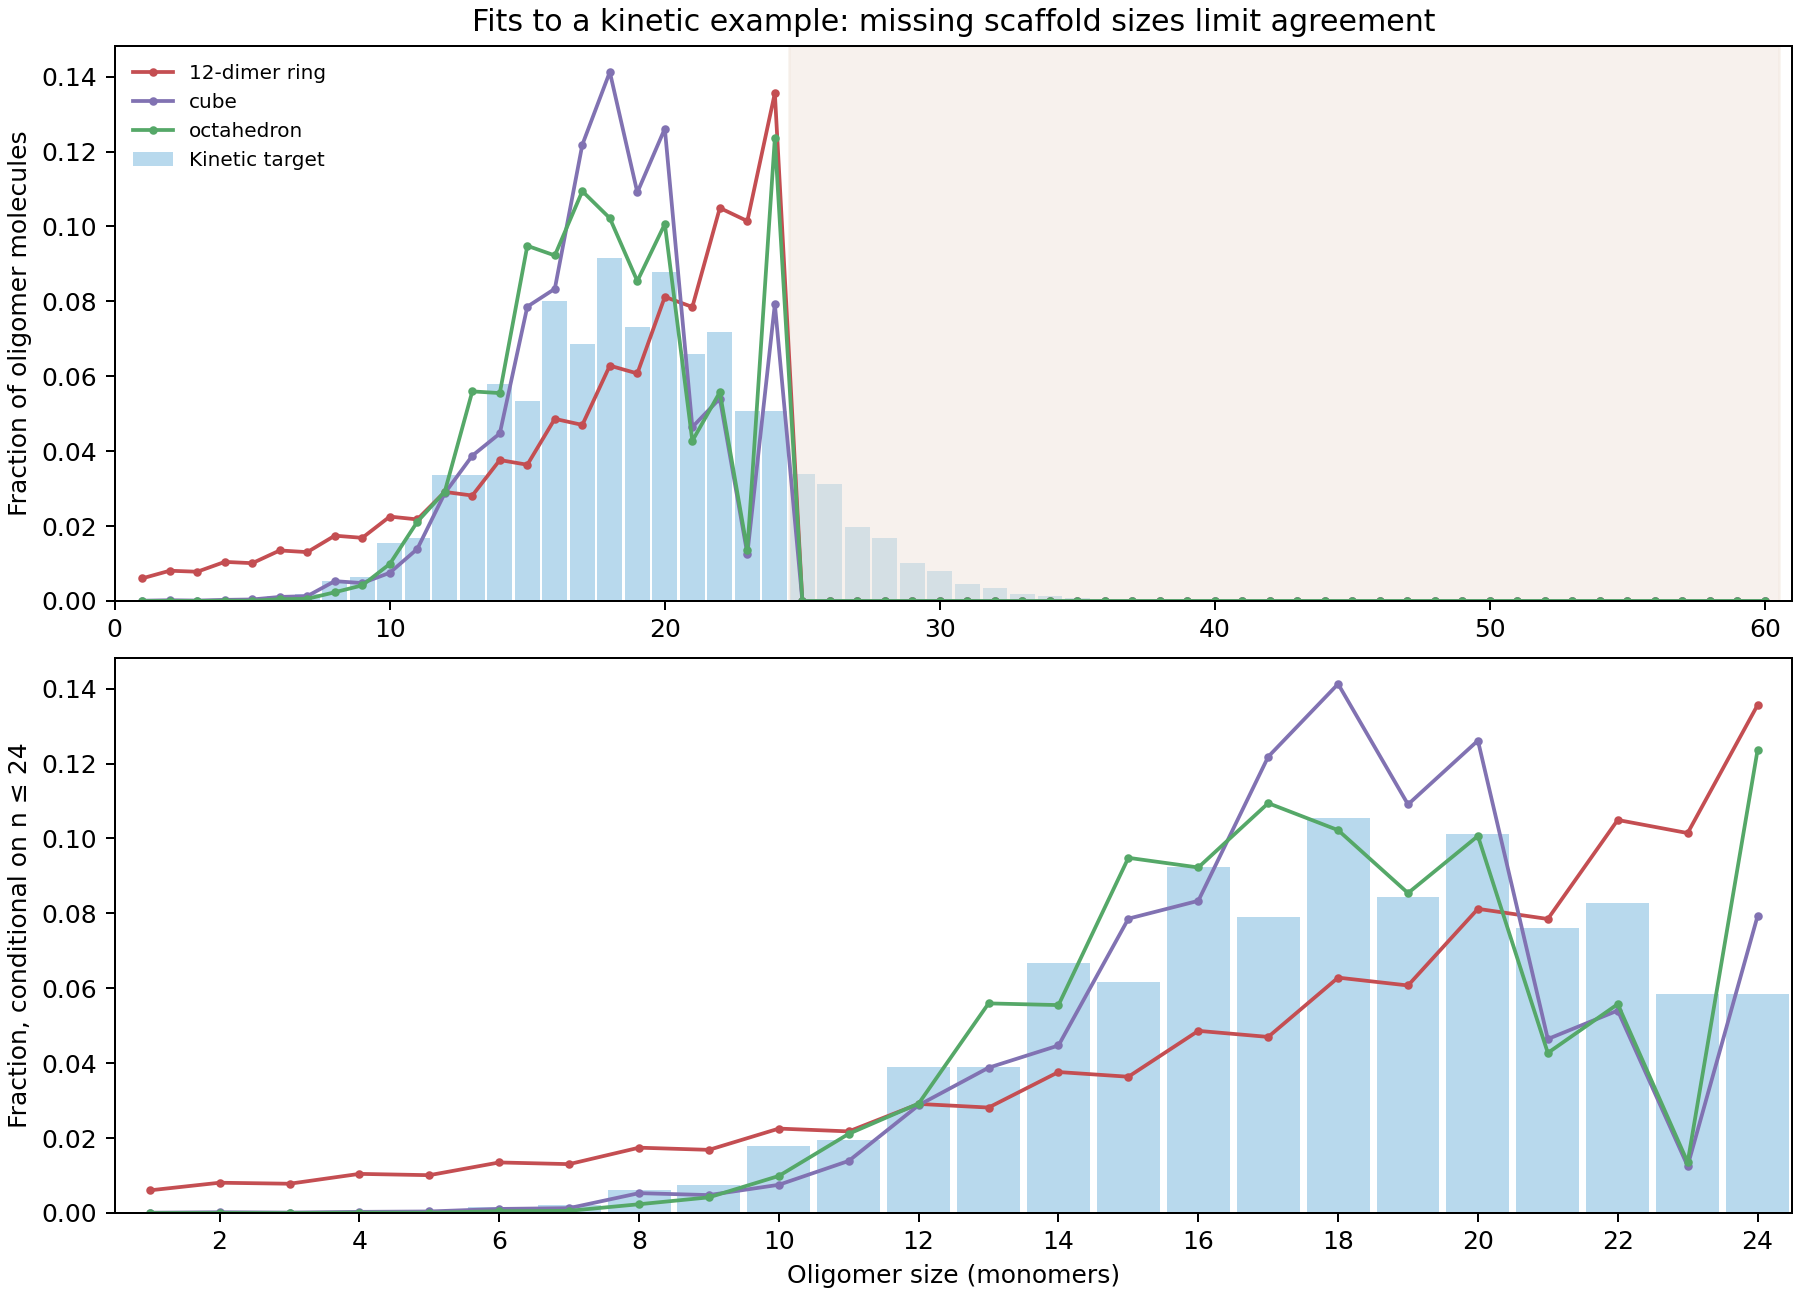
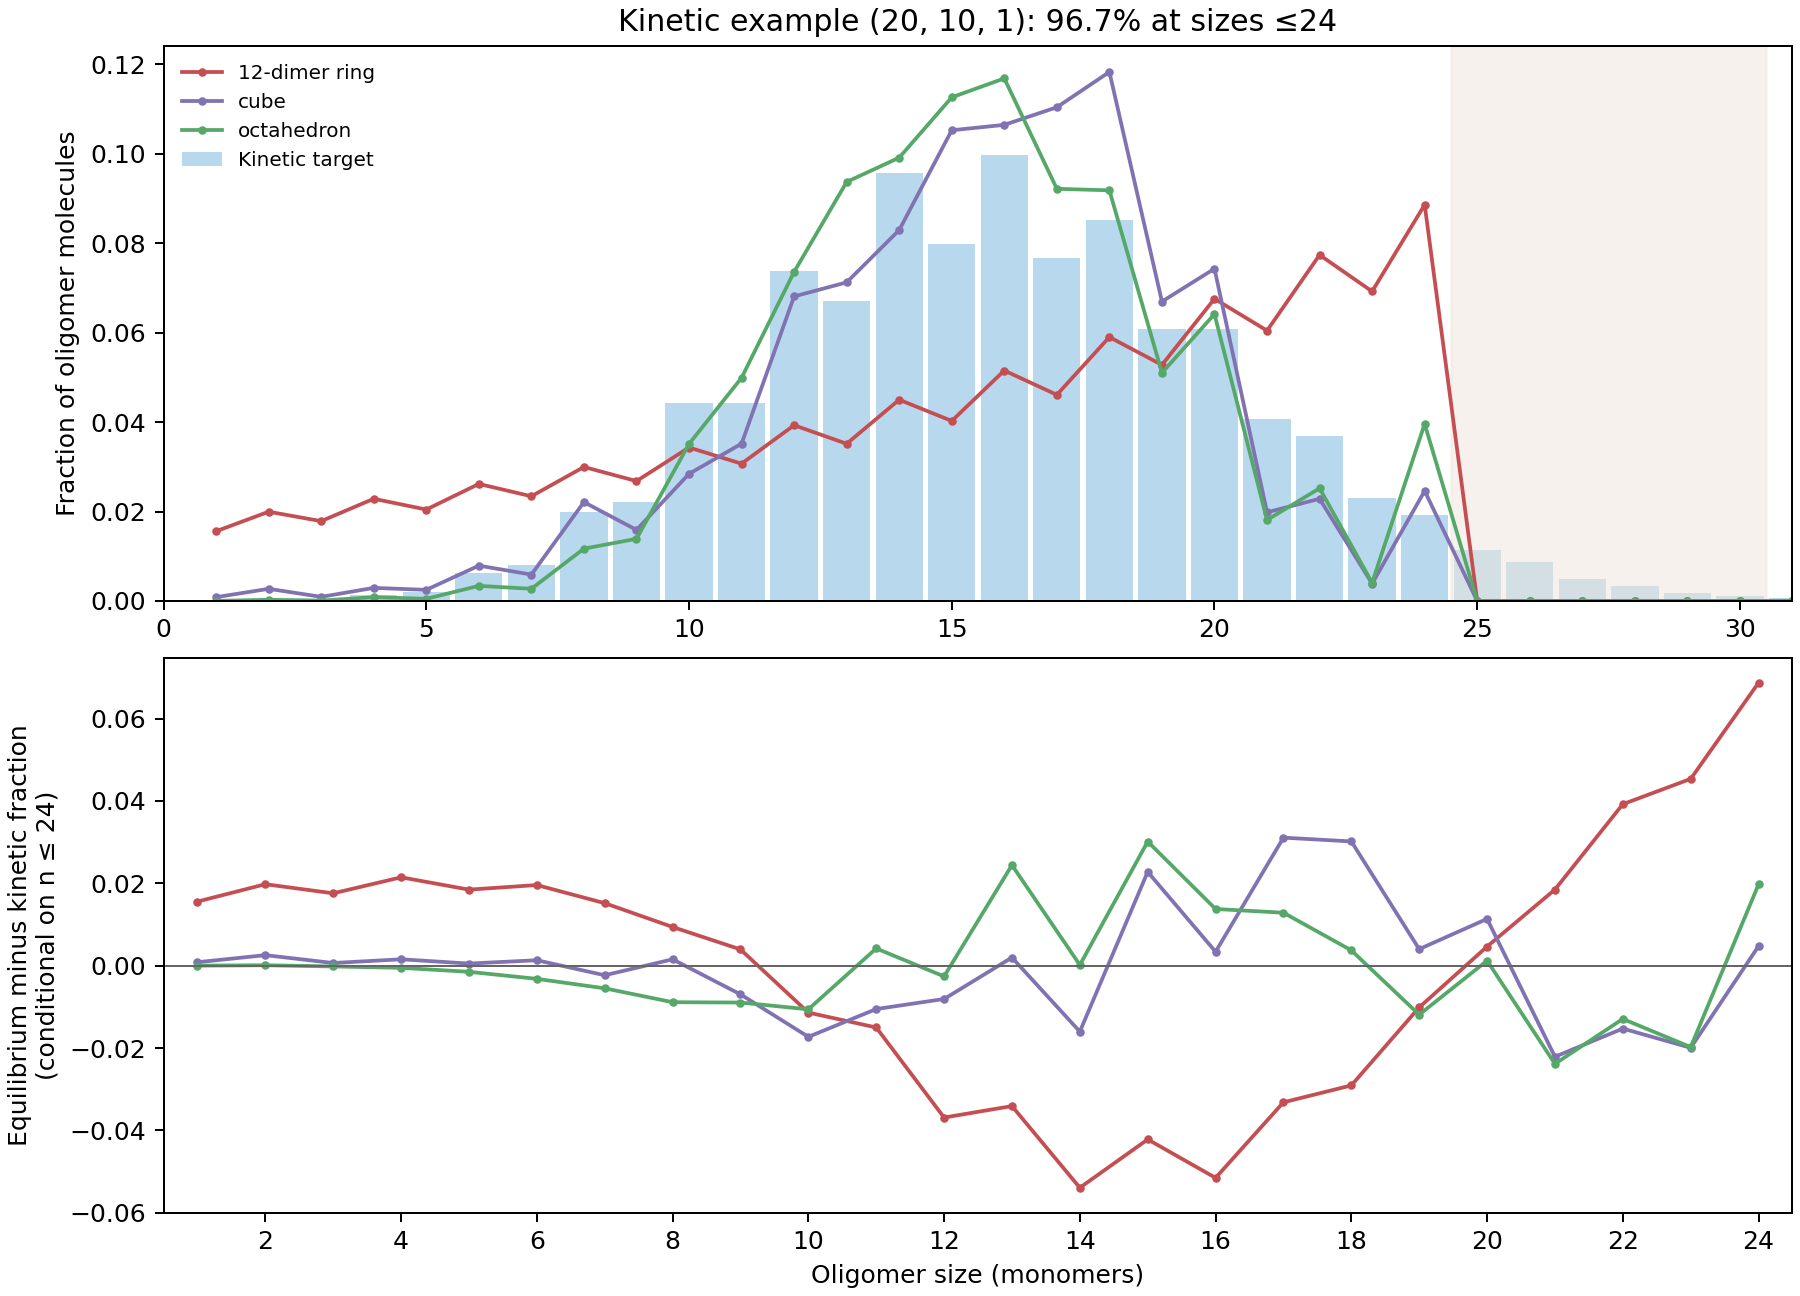
Use requested 20 10 1 rates for scaffold comparison

diff --git a/single/statistical_mechanics/fit_scaffold_to_kinetics.py b/single/statistical_mechanics/fit_scaffold_to_kinetics.py
@@ -22,7 +22,8 @@ from single.statistical_mechanics.equilibrium_scaffold import (
 from single.statistical_mechanics.geometry import cube, dimer_ring, octahedron
 
 
-BASE_RATES = (24.0, 12.0, 1.0)
+# Argument order: effective on-rate, unpaired off-rate, paired off-rate.
+BASE_RATES = (20.0, 10.0, 1.0)
 MAX_SIZE = 60
 PARENT_SIZE = 24
 
@@ -63,15 +64,14 @@ def main() -> None:
     fits = [(catalogue, *fit_catalogue(catalogue, conditional_target))
             for catalogue in catalogues]
 
-    fig, (ax_full, ax_cond) = plt.subplots(
+    fig, (ax_full, ax_residual) = plt.subplots(
         2, 1, figsize=(10, 7.2), constrained_layout=True)
     ax_full.bar(sizes, full_kinetic, width=0.9, color="#b8d9ed",
                 label="Kinetic target")
-    ax_cond.bar(sizes[:PARENT_SIZE], conditional_target,
-                width=0.9, color="#b8d9ed", label="Kinetic target, n ≤ 24")
     colours = {"12-dimer ring": "#c44e52", "cube": "#8172b2",
                "octahedron": "#55a868"}
-    print(f"Kinetic probability above 24 monomers: {missing_tail:.4f}")
+    print(f"Kinetic target mode: {int(np.argmax(full_kinetic)) + 1}-mer")
+    print(f"Kinetic probability above 24 monomers: {missing_tail:.6f}")
     print("Parent      parameters (log z, eps_d, eps_C, kappa)"
           "        TV n<=24  TV full  mode")
     for catalogue, parameters, predicted in fits:
@@ -80,9 +80,9 @@ def main() -> None:
         colour = colours[catalogue.scaffold_name]
         ax_full.plot(sizes, padded, marker="o", markersize=2.4,
                      linewidth=1.5, color=colour, label=catalogue.scaffold_name)
-        ax_cond.plot(sizes[:PARENT_SIZE], predicted,
-                     marker="o", markersize=2.4, linewidth=1.5, color=colour,
-                     label=catalogue.scaffold_name)
+        ax_residual.plot(sizes[:PARENT_SIZE], predicted - conditional_target,
+                         marker="o", markersize=2.4, linewidth=1.5,
+                         color=colour, label=catalogue.scaffold_name)
         values = tuple(vars(parameters).values())
         print(f"{catalogue.scaffold_name:13} "
               f"{str(tuple(round(x, 3) for x in values)):38} "
@@ -90,22 +90,25 @@ def main() -> None:
               f"{total_variation(padded, full_kinetic):.4f}    "
               f"{int(np.argmax(predicted)) + 1}")
 
-    ax_full.axvspan(24.5, 60.5, color="#f1e5dc", alpha=0.5)
-    ax_full.set(xlim=(0, 61), ylabel="Fraction of oligomer molecules",
-                title="Fits to a kinetic example: missing scaffold sizes limit agreement")
+    ax_full.axvspan(24.5, 30.5, color="#f1e5dc", alpha=0.5)
+    ax_full.set(xlim=(0, 31), ylabel="Fraction of oligomer molecules",
+                title=f"Kinetic example ({BASE_RATES[0]:g}, "
+                      f"{BASE_RATES[1]:g}, {BASE_RATES[2]:g}): "
+                      f"{100 * (1 - missing_tail):.1f}% at sizes ≤24")
     ax_full.legend(frameon=False, fontsize=8)
-    ax_cond.set(xlim=(0.5, 24.5), xlabel="Oligomer size (monomers)",
-                ylabel="Fraction, conditional on n ≤ 24")
-    ax_cond.set_xticks(np.arange(2, 25, 2))
+    ax_residual.axhline(0, color="#666666", linewidth=0.8)
+    ax_residual.set(xlim=(0.5, 24.5), xlabel="Oligomer size (monomers)",
+                    ylabel="Equilibrium minus kinetic fraction\n(conditional on n ≤ 24)")
+    ax_residual.set_xticks(np.arange(2, 25, 2))
     output = Path(__file__).with_name("scaffold_kinetic_fit.png")
     fig.savefig(output, dpi=180)
     print(f"Wrote {output}")
 
-    print("\nHoldout test: fit at effective on-rate 24; change only log(z) "
-          "by log(new on-rate / 24)")
+    print(f"\nHoldout test: fit at effective on-rate {BASE_RATES[0]:g}; "
+          "change only log(z) by log(new on-rate / baseline)")
     print("Parent         on-rate  TV on n<=24  predicted mode  kinetic mode")
     for catalogue, parameters, _ in fits:
-        for new_on_rate in (12.0, 36.0):
+        for new_on_rate in (16.0, 18.0):
             _, target = oligomer_distribution(
                 new_on_rate, BASE_RATES[1], BASE_RATES[2], max_size=PARENT_SIZE)
             shifted = EquilibriumParameters(

diff --git a/single/statistical_mechanics/readme.md b/single/statistical_mechanics/readme.md
@@ -94,7 +94,8 @@ their equilibrium weights are fitted.
 `fit_scaffold_to_kinetics.py` fits **four shared equilibrium parameters**
 (`log(z)`, dimer stabilization, C-terminal stabilization, and saturated-vertex
 penalty) to the repository's synthetic kinetic example
-`(k_on_eff, k_m, k_d)=(24,12,1)`. Binding stabilizations and the penalty are
+`(k_on_eff, k_m, k_d)=(20,10,1)`: effective on-rate 20, unpaired off-rate
+10, and paired off-rate 1. Binding stabilizations and the penalty are
 constrained nonnegative. The kinetic curve is a calibration target, not an
 input to the partition function itself. Both curves are normalized over
 sizes `1..24` for the fit, then the fitted equilibrium curve is compared with
@@ -102,17 +103,18 @@ the complete kinetic curve out to size 60.
 
 | Parent template | Total variation, sizes ≤24 | Total variation, full kinetic curve | Fitted mode |
 | --- | ---: | ---: | ---: |
-| Single 12-dimer ring | 0.237 | 0.281 | 24 |
-| Cube | 0.166 | 0.240 | 18 |
-| Octahedron | 0.148 | 0.230 | 24 |
+| Single 12-dimer ring | 0.317 | 0.326 | 24 |
+| Cube | 0.119 | 0.138 | 18 |
+| Octahedron | 0.110 | 0.132 | 16 |
 
-The 24-site parents cannot represent the kinetic curve's `0.133` probability
-above size 24. Their **within-range** shapes also disagree, especially near
-the full 24-mer. A concentration-proxy check fits at effective on-rate 24,
-then changes only `log(z)` by `log(new_on_rate/24)`. For the octahedron, total
-variation on sizes `1..24` rises to `0.234` at on-rate 12 and `0.281` at
-on-rate 36. Thus the present contact catalogue gives a qualitative finite
-peak but does **not** quantitatively replicate the kinetic family of curves.
+With these rates, the kinetic curve peaks at a 16-mer and has `0.03266`
+probability above size 24. The octahedral equilibrium fit has the same mode;
+its remaining mismatch is partly within the shared size range. A
+concentration-proxy check fits at effective on-rate 20, then changes only
+`log(z)` by `log(new_on_rate/20)`. For the octahedron, total variation on
+sizes `1..24` is `0.138` at on-rate 16 and `0.112` at on-rate 18. Thus the
+present contact catalogue captures a broadly similar equilibrium curve but
+does **not** quantitatively replicate the kinetic family of curves.
 The earlier factorial toy model fits the single baseline curve more closely
 (total variation `0.049`), but that is a descriptive fit with different
 energies and is not a validated geometry-based explanation.
